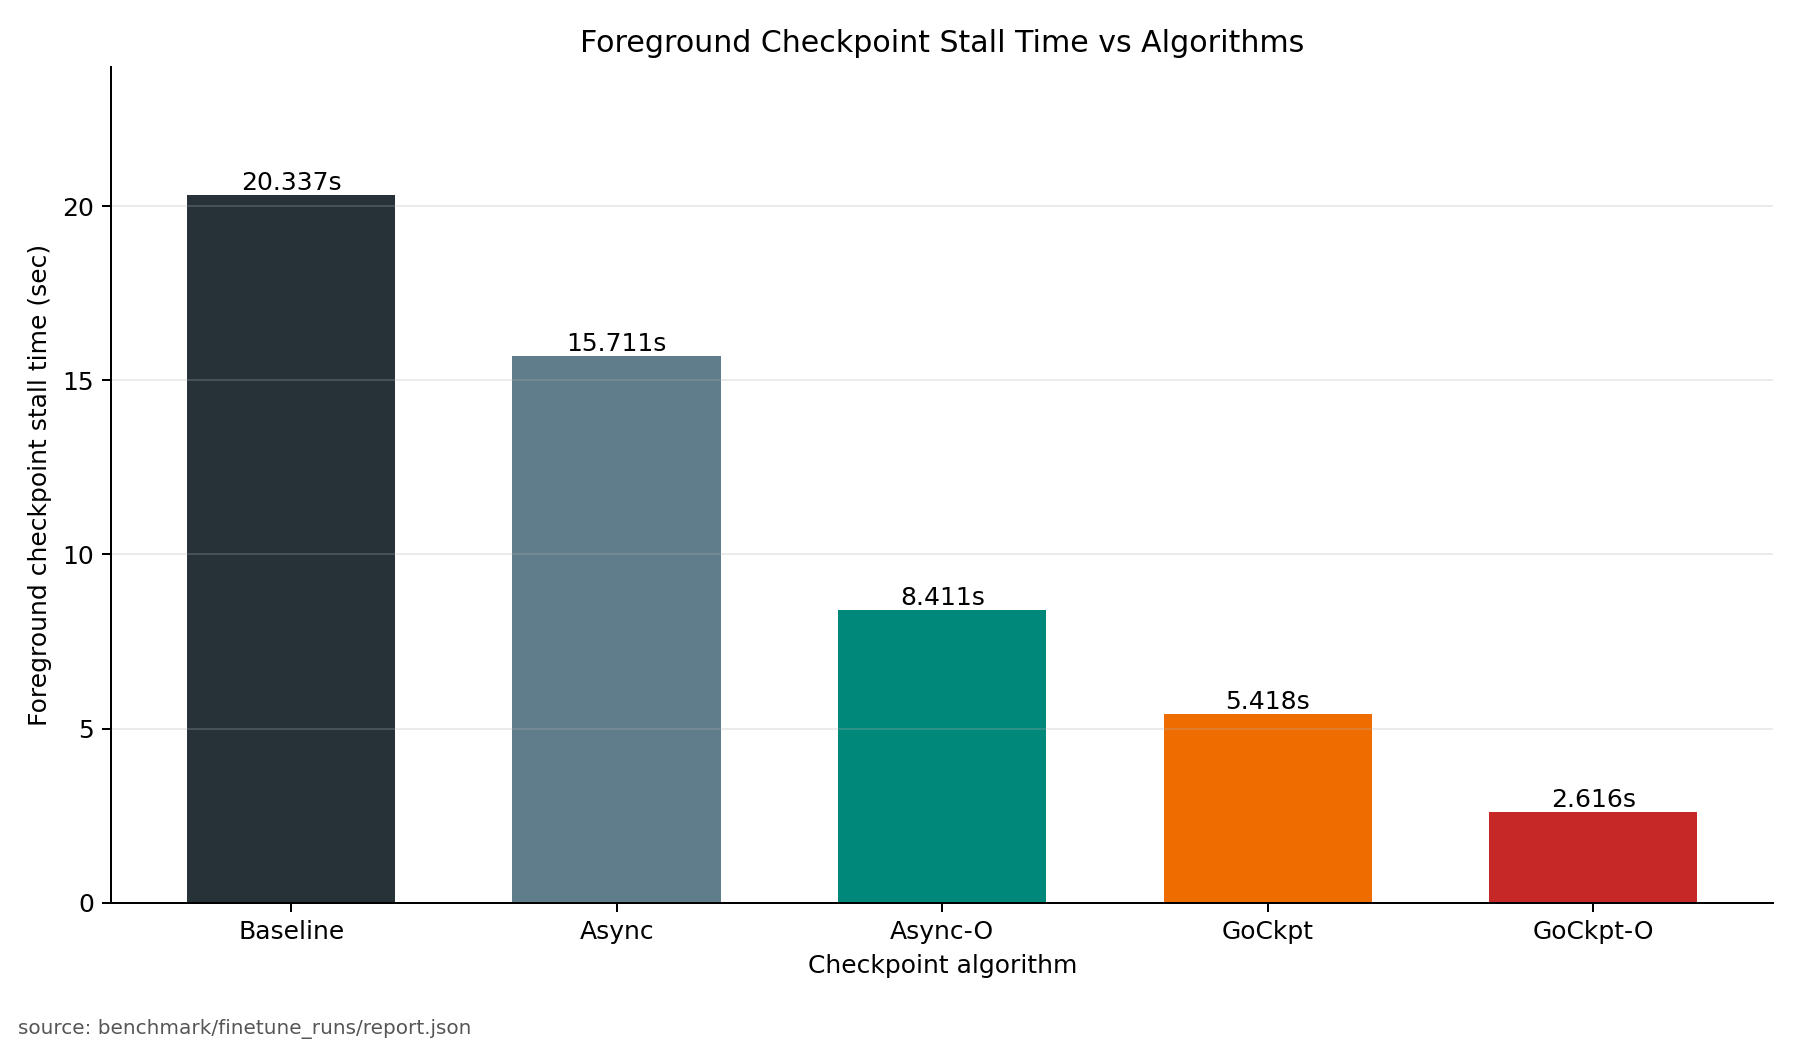
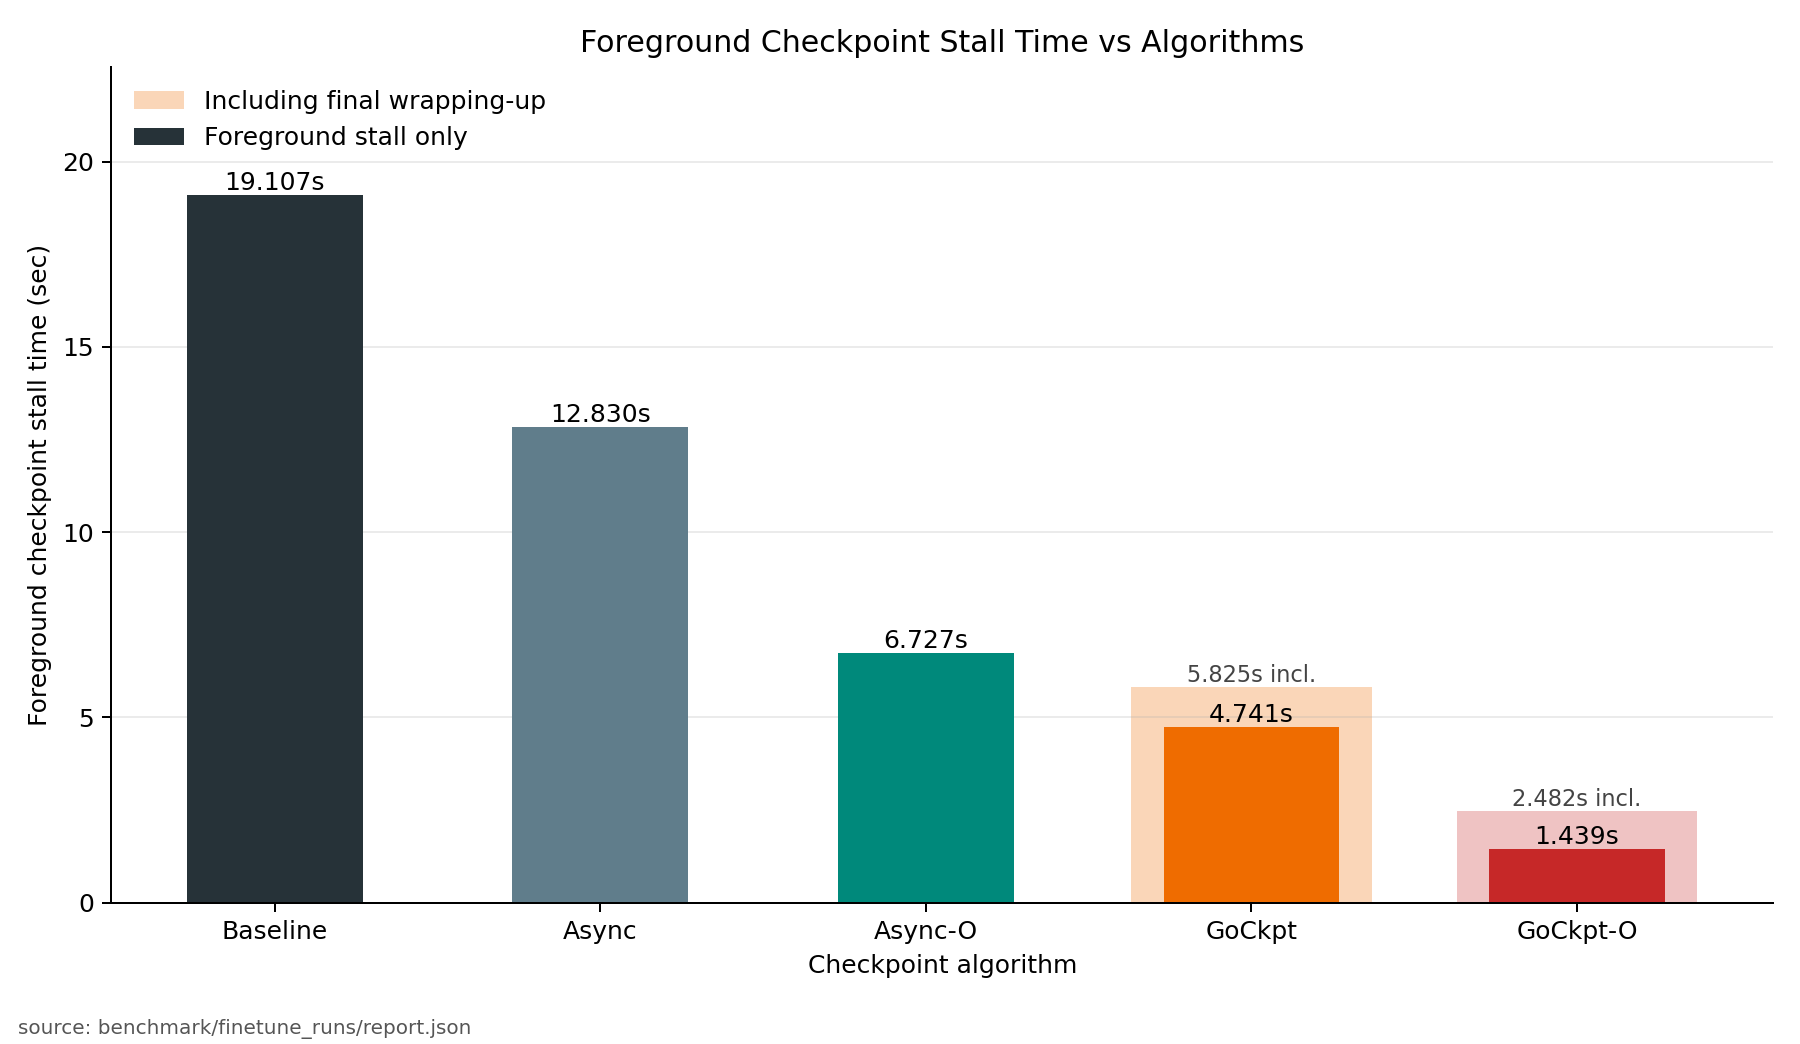
feat: added wrapping-up time as shade in the final graph

diff --git a/benchmark/visualize_checkpoint_save_time.py b/benchmark/visualize_checkpoint_save_time.py
@@ -5,8 +5,9 @@ The input must be a JSON report produced by benchmark/finetune_benchmark.py.
 
 The plotted value is foreground time spent inside checkpoint hook phases. This
 is the paper-style metric for visible checkpoint overhead; it intentionally
-does not include background persistence/reconstruction work unless the training
-thread waits for it in a hook phase.
+does not include final post-training drain time. For GoCkpt and GoCkpt-O, the
+plot also shows a shaded same-color bar that includes final wrapping-up so the
+catch-up cost remains visible without mixing it into the foreground metric.
 """
 
 from __future__ import annotations
@@ -25,6 +26,15 @@ HOOK_LABELS = {
     "gockpt": "GoCkpt",
     "gockpt_o": "GoCkpt-O",
 }
+HOOK_COLORS = {
+    "baseline": "#263238",
+    "async": "#607d8b",
+    "async_o": "#00897b",
+    "gockpt": "#ef6c00",
+    "gockpt_o": "#c62828",
+}
+WRAPUP_HOOKS = {"gockpt", "gockpt_o"}
+FINAL_WRAPUP_PHASE = "hook.wait_for_pending_persistence"
 
 
 def parse_args() -> argparse.Namespace:
@@ -86,13 +96,11 @@ def foreground_phase_names(run: dict[str, Any]) -> list[str]:
         return [
             "hook.save_checkpoint",
             "hook.forward_begin",
-            "hook.wait_for_pending_persistence",
         ]
     if hook_type == "async_o":
         return [
             "hook.save_checkpoint",
             "hook.update_begin",
-            "hook.wait_for_pending_persistence",
         ]
     if hook_type in {"gockpt", "gockpt_o"}:
         return [
@@ -102,13 +110,12 @@ def foreground_phase_names(run: dict[str, Any]) -> list[str]:
             "hook.backward_end",
             "hook.update_begin",
             "hook.update_end",
-            "hook.wait_for_pending_persistence",
         ]
     return ["hook.save_checkpoint"]
 
 
-def collect_foreground_times(report: dict[str, Any]) -> list[tuple[str, float]]:
-    by_hook: dict[str, float] = {}
+def collect_foreground_times(report: dict[str, Any]) -> list[tuple[str, float, float | None]]:
+    by_hook: dict[str, tuple[float, float | None]] = {}
     for run in get_runs(report):
         hook_type = run.get("hook_type")
         if not isinstance(hook_type, str):
@@ -117,16 +124,21 @@ def collect_foreground_times(report: dict[str, Any]) -> list[tuple[str, float]]:
         total = 0.0
         for phase in foreground_phase_names(run):
             total += phase_total(run, phase) or 0.0
-        by_hook[hook_type] = total
+
+        total_with_final: float | None = None
+        if hook_type in WRAPUP_HOOKS:
+            total_with_final = total + (phase_total(run, FINAL_WRAPUP_PHASE) or 0.0)
+
+        by_hook[hook_type] = (total, total_with_final)
 
     ordered = [(hook, by_hook[hook]) for hook in HOOK_ORDER if hook in by_hook]
     if not ordered:
         raise ValueError("no foreground checkpoint timing data found in report")
-    return ordered
+    return [(hook, values[0], values[1]) for hook, values in ordered]
 
 
 def plot_foreground_times(
-    foreground_times: list[tuple[str, float]],
+    foreground_times: list[tuple[str, float, float | None]],
     output_path: Path,
     title: str,
     report_path: Path,
@@ -136,13 +148,40 @@ def plot_foreground_times(
     matplotlib.use("Agg")
     import matplotlib.pyplot as plt
 
-    labels = [HOOK_LABELS.get(hook, hook) for hook, _ in foreground_times]
-    values = [value for _, value in foreground_times]
-    colors = ["#263238", "#607d8b", "#00897b", "#ef6c00", "#c62828"][: len(values)]
+    labels = [HOOK_LABELS.get(hook, hook) for hook, _, _ in foreground_times]
+    values = [value for _, value, _ in foreground_times]
+    wrapup_values = [value for _, _, value in foreground_times]
+    colors = [HOOK_COLORS.get(hook, "#455a64") for hook, _, _ in foreground_times]
 
     output_path.parent.mkdir(parents=True, exist_ok=True)
     fig, ax = plt.subplots(figsize=(10, 5.8))
-    bars = ax.bar(labels, values, color=colors, width=0.64)
+    x_positions = list(range(len(labels)))
+
+    wrapup_bars = []
+    for index, (hook, _, total_with_final) in enumerate(foreground_times):
+        if total_with_final is None:
+            continue
+        wrapup_bars.append(
+            ax.bar(
+                index,
+                total_with_final,
+                color=HOOK_COLORS.get(hook, "#455a64"),
+                alpha=0.28,
+                width=0.74,
+                label="Including final wrapping-up" if not wrapup_bars else None,
+                zorder=1,
+            )[0]
+        )
+
+    bars = ax.bar(
+        x_positions,
+        values,
+        color=colors,
+        width=0.54,
+        label="Foreground stall only",
+        zorder=2,
+    )
+    ax.set_xticks(x_positions, labels)
 
     ax.set_title(title)
     ax.set_ylabel("Foreground checkpoint stall time (sec)")
@@ -151,7 +190,9 @@ def plot_foreground_times(
     ax.spines["top"].set_visible(False)
     ax.spines["right"].set_visible(False)
 
-    max_value = max(values)
+    max_value = max(
+        values + [value for value in wrapup_values if value is not None]
+    )
     ax.set_ylim(0, max_value * 1.18 if max_value > 0 else 1.0)
     for bar, value in zip(bars, values):
         ax.text(
@@ -162,6 +203,21 @@ def plot_foreground_times(
             va="bottom",
             fontsize=10,
         )
+
+    for bar in wrapup_bars:
+        value = bar.get_height()
+        ax.text(
+            bar.get_x() + bar.get_width() / 2,
+            value,
+            f"{value:.3f}s incl.",
+            ha="center",
+            va="bottom",
+            fontsize=9,
+            color="#444444",
+        )
+
+    if wrapup_bars:
+        ax.legend(frameon=False, loc="upper left")
 
     fig.text(
         0.01,